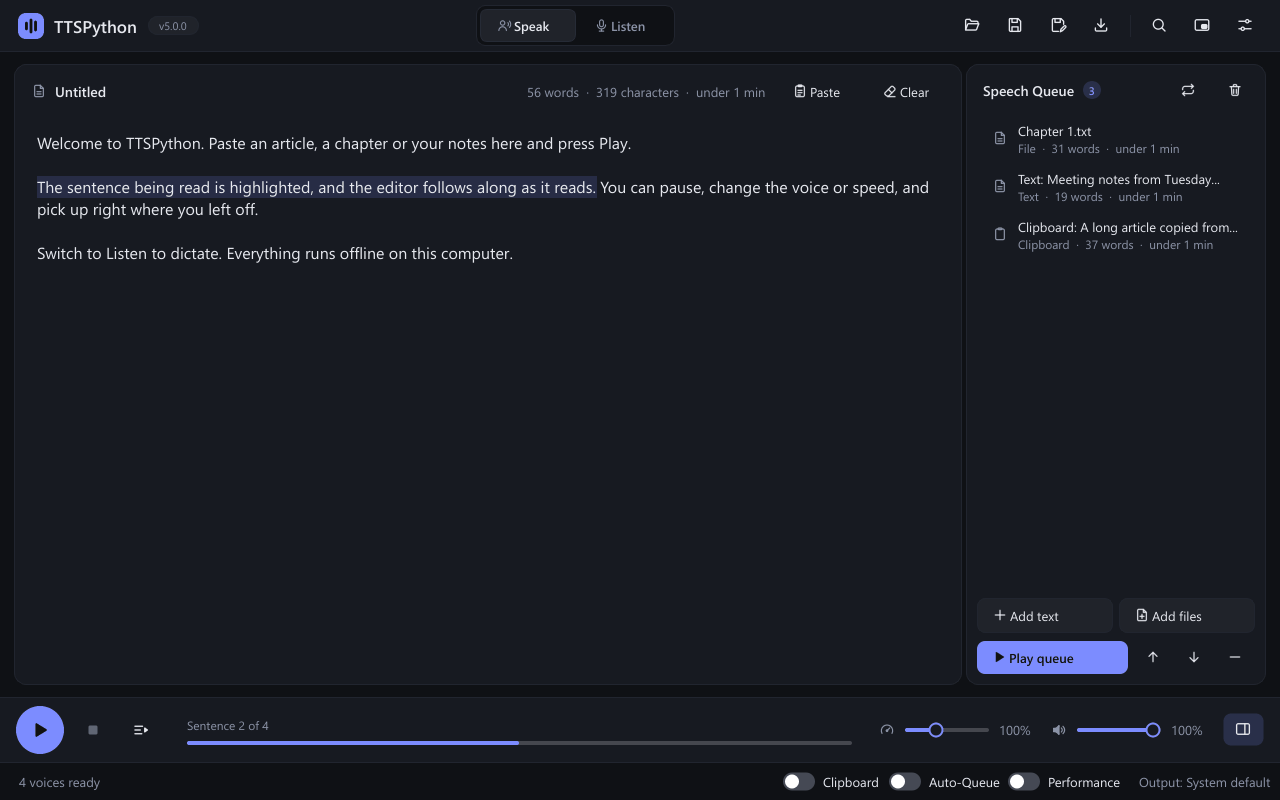
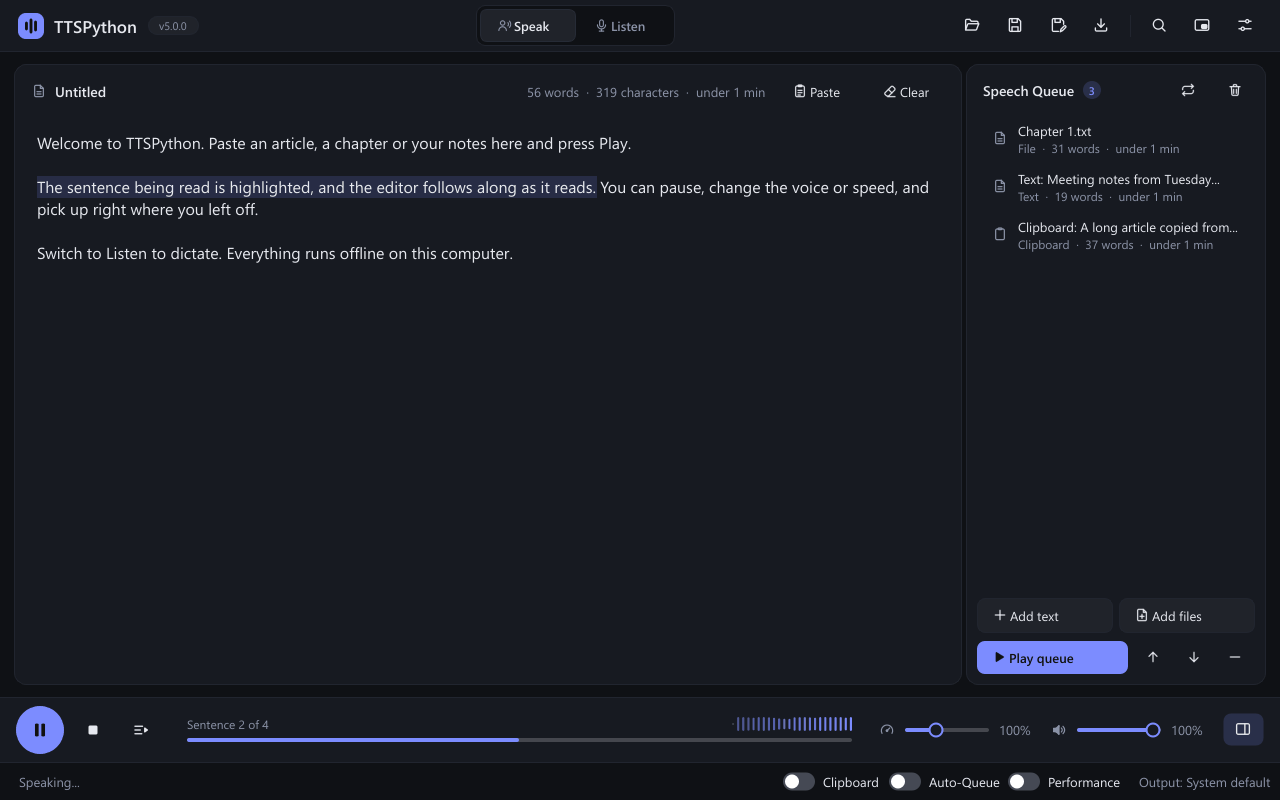
Correct the docs and show speech playing in the README
Docs now match the code on saving, prompts, downloads and pasting. Startup and
memory figures are re-measured (727 ms, 144 MB). The Python floor is the tested
3.10 instead of an untested 3.9, and Linux is described as a preview. The main
screenshot shows speech playing; the other four matched pixel for pixel.

Tests: 442 passed on Python 3.13 and 3.10.

Changed region(s): [[0.125, 0.875, 0.6875, 0.9375], [0.0, 0.9688, 0.0625, 1.0]]

diff --git a/tools/screenshots.py b/tools/screenshots.py
@@ -1,6 +1,7 @@
 """Render the real app's windows to PNG files (uses temporary settings and data folders).
 
-Usage: python tools/screenshots.py --out <folder> [--themes all|studio,light] [--scale 1]
+Usage: python tools/screenshots.py --out <folder> [--themes all|studio,light] [--size 1280x800] [--extras]
+Set QT_SCALE_FACTOR=2 for double-size pictures.
 Set TTSPYTHON_DATA (Piper voices, live preview model) and HF_HOME (Whisper models) to folders with
 downloads in them to show those; by default both are empty temporary folders, never your own.
 With QT_QPA_PLATFORM=offscreen and QT_QPA_FONTDIR=C:/Windows/Fonts no window opens on the desktop.
@@ -41,6 +42,7 @@ def main():
 
     from ttspython.core.settings import SettingsStore
     from ttspython.core.theme import THEME_PRESETS
+    from ttspython.ui import icons
     from ttspython.ui.app_controller import AppController
 
     app = QApplication(sys.argv[:1])
@@ -78,11 +80,25 @@ def main():
         ctl.editor.begin_tracking()
         ctl.editor.highlight_range(HL_START, HL_END)
         ctl.window.transport.set_progress(1, 4, "Sentence 2 of 4")
+        # As it looks while reading: nothing is spoken, the waveform gets a speech-shaped level.
+        clock = __import__("time").monotonic
+        math = __import__("math")
+        ctl.window.transport.set_level_source(
+            lambda: 0.2 + 0.7 * abs(math.sin(clock() * 11)) * abs(math.sin(clock() * 2.7)))
+        icons.apply(ctl.actions["play_pause"], "pause", "on_accent", 22)
+        ctl.window.status_label.setText("Speaking...")
+        ctl.actions["stop"].setEnabled(True)
+        settle(1000)
         for key in themes:
             ctl.theme.apply(key)
+            icons.apply(ctl.actions["play_pause"], "pause", "on_accent", 22)
             ctl.editor.begin_tracking()
             ctl.editor.highlight_range(HL_START, HL_END)
             grab(ctl.window, f"main_{key}")
+        ctl.window.transport.set_level_source(None)
+        icons.apply(ctl.actions["play_pause"], "play", "on_accent", 22)
+        ctl.window.status_label.setText("")
+        ctl.actions["stop"].setEnabled(False)
         if args.extras:
             ctl.theme.apply(themes[0])
             ctl.set_mode("stt")

diff --git a/README.md b/README.md
@@ -1,6 +1,6 @@
 # TTSPython
 
-An offline text-to-speech (TTS) and speech-to-text (STT) desktop app for Windows and Linux, with a full editor window and a floating mini bar that works over any app. Speech uses your system voices (SAPI5 on Windows, espeak-ng on Linux) or natural-sounding Piper voices you download once, and dictation runs locally with `faster-whisper`. Nothing you read or say leaves your computer.
+A free, open-source, offline text-to-speech (TTS) and speech-to-text (STT) desktop app for Windows and Linux, with a full editor window and a floating mini bar that works over any app. Speech uses your system voices (SAPI5 on Windows, espeak-ng on Linux) or natural-sounding Piper voices you download once, and dictation runs locally with `faster-whisper`. Nothing you read or say leaves your computer.
 
 ![TTSPython main window](assets/screenshots/main.png)
 
@@ -12,7 +12,7 @@ An offline text-to-speech (TTS) and speech-to-text (STT) desktop app for Windows
 |:---:|:---:|
 | ![The main window in Listen mode](assets/screenshots/listen.png) | ![The Listen page of Settings](assets/screenshots/settings.png) |
 
-![Python](https://img.shields.io/badge/python-3.9%2B-blue.svg)
+![Python](https://img.shields.io/badge/python-3.10%2B-blue.svg)
 ![Platform](https://img.shields.io/badge/platform-Windows%20%7C%20Linux-lightgrey.svg)
 ![License](https://img.shields.io/badge/license-MIT-green.svg)
 ![Version](https://img.shields.io/badge/version-5.0.0-brightgreen.svg)
@@ -67,7 +67,7 @@ Work even when TTSPython is in the background. All can be changed in **Settings 
 - Save the text (or just the selected part) as **WAV** or **MP3** with the current voice, speed and volume. Export runs in the background with progress and a Cancel button, writes as it goes (a whole book never sits in memory), remembers the folder and format, and offers **Open folder** when done.
 
 ### Editor
-- **New**, open and save text files (UTF-8, UTF-16 and Windows-1252) without changing their encoding or line endings. A file in another encoding (such as GBK or Shift-JIS) can look wrong; you are told when it opens, and Save asks where to save, so the original stays as it is. The **Open** button's arrow lists recent files, and you can drop a text file on the editor to open it. The window title shows the file name and whether it has unsaved changes. Closing with unsaved text asks first.
+- **New**, open and save text files (UTF-8, UTF-16 and Windows-1252) without changing their encoding or line endings. A file in another encoding (such as GBK or Shift-JIS) can look wrong; you are told when it opens, and Save asks where to save, so the original stays as it is. The **Open** button's arrow lists recent files, and you can drop a text file on the editor to open it. The window title shows the file name and whether it has unsaved changes. Closing with unsaved text offers **Save**, **Discard** or **Cancel**.
 - Unsaved text is kept every 30 seconds, so it comes back after a crash or a logoff.
 - The word count also shows the reading time at the current speed.
 - Inline **Find and replace** (`Ctrl+F`) with match case, regular expressions, previous/next with wrap-around, a match count ("2 of 5"), Replace and Replace all (one undo step).
@@ -79,8 +79,8 @@ Work even when TTSPython is in the background. All can be changed in **Settings 
 - The window, Settings and mini bar fit small windows and large display scaling without cutting anything off.
 
 ## Requirements
-- **Windows 10/11** or **Linux** (X11 or Wayland).
-- Python 3.9 or newer (developed and tested on Python 3.13).
+- **Windows 10/11** or **Linux** (X11 or Wayland). Linux is a preview in 5.0: it is built and smoke-tested automatically, but has had less hands-on testing than Windows, so please report what you find.
+- To run from source: Python 3.10 or newer (developed on 3.13; the full test suite also passes on 3.10).
 - Python packages (installed by the scripts below): `PySide6-Essentials`, `pyttsx3`, `numpy`, `sounddevice`, `lameenc`, `faster-whisper`, `sherpa-onnx` (the instant live preview); on Windows also `comtypes` (talks to the SAPI5 voices; pyttsx3 brings `pywin32` for its fallback driver); on Linux also `pynput`.
 - Linux system packages: `espeak-ng`, `portaudio`, `xcb-util-cursor` (Debian/Ubuntu: `libxcb-cursor0`). Optional: `wtype` to type dictation at the cursor on Wayland.
 
@@ -90,6 +90,7 @@ Work even when TTSPython is in the background. All can be changed in **Settings 
 Download the latest build from [Releases](https://github.com/JoshLongmire/TTSPython/releases):
 - **Windows:** `TTSPython-<version>-windows-x64.zip`. Extract it anywhere and run `TTSPython\TTSPython.exe`.
   The app is not code-signed, so SmartScreen may warn you: choose **More info > Run anyway**.
+  The folder also holds `LICENSE.txt` and `THIRD_PARTY_LICENSES.txt`.
 - **Linux:** `TTSPython-<version>-linux-x86_64.tar.gz`. Extract it and run `TTSPython/install.sh` (installs for your
   user only: app menu entry and a `ttspython` command; `uninstall.sh` removes it). It also needs
   `espeak-ng`, `libportaudio2` and `libxcb-cursor0` from your distribution; the installer tells you if one is missing.
@@ -98,7 +99,7 @@ Download the latest build from [Releases](https://github.com/JoshLongmire/TTSPyt
 The first dictation downloads the Whisper model you picked (once) and the live preview model (73 MB, once, English only), and a Piper voice downloads when you pick it, so the app needs internet for those.
 
 ### From source: Windows
-1. Install Python 3.9 or newer from [python.org](https://www.python.org/downloads/windows/) (tick **Add Python to PATH**).
+1. Install Python 3.10 or newer from [python.org](https://www.python.org/downloads/windows/) (tick **Add Python to PATH**).
 2. Get the code and install the dependencies:
    ```powershell
    git clone https://github.com/JoshLongmire/TTSPython.git
@@ -106,8 +107,6 @@ The first dictation downloads the Whisper model you picked (once) and the live p
    ./dependencies.bat
    py TTSPython.py
    ```
-
-> **First run tip:** If Windows Defender or SmartScreen warns you, choose **More info > Run anyway**. TTSPython is a plain Python script, not a signed installer.
 
 ### From source: Linux (Arch and others)
 1. System packages (Arch example):
@@ -242,7 +241,7 @@ The Settings window has these pages: **Appearance** (theme gallery, Performance 
 - The microphone is muted, or Windows does not let apps use it: **Settings > Privacy & security > Microphone**, turn on access for desktop apps.
 
 ### Dictation is not typed into another app
-- Some apps running as administrator block simulated typing; the text is put on the clipboard instead, so press `Ctrl+V`.
+- A window running as administrator ignores simulated typing. TTSPython notices, leaves the text on the clipboard and says so: press `Ctrl+V`. The same happens if a paste fails.
 - Terminals often paste with `Shift+Insert`: change **Settings > Listen > Paste using** (also used with `wtype` on Wayland).
 - If you still hold `Alt` or `Shift` from the stop hotkey, the text is copied instead of pasted (pasting then would trigger another command): press `Ctrl+V`.
 - On Wayland, install `wtype`, or use the clipboard option.
@@ -279,7 +278,7 @@ build.bat        # Windows: dist/TTSPython/TTSPython.exe and dist/TTSPython-<ver
 ```
 Each system builds its own app (PyInstaller cannot build for another OS). Build Linux on the oldest distribution
 you want to support. Pushing a `v*` tag runs `.github/workflows/build.yml`, which builds and smoke-tests both
-and attaches them to the GitHub release. To check a build, run it with `TTSPYTHON_SELFTEST=<report.json>`: it loads
+and attaches them to the GitHub release, using the exact tested versions in `packaging/constraints.txt`. To check a build, run it with `TTSPYTHON_SELFTEST=<report.json>`: it loads
 every part (voices, the Piper voice list, MP3 export, Whisper libraries, the live preview engine and, if downloaded,
 its model, audio devices), writes the report (with a `problems` list, empty when all is well) and quits,
 without sound. `python packaging/build.py --check` does this right after building and fails if it finds a problem. Add `TTSPYTHON_SELFTEST_STT=tiny` to also dictate a spoken test phrase through the real transcription
@@ -289,7 +288,8 @@ and `TTSPYTHON_SELFTEST_VOICE=<voice id>` exports the test MP3 with that voice (
 
 ## License
 
-Released under the MIT License. See the [`LICENSE`](LICENSE) file.
+Released under the MIT License. See the [`LICENSE`](LICENSE) file. The ready-to-run app also includes Qt, Whisper's
+engine and other components under their own licenses, listed in its `THIRD_PARTY_LICENSES.txt`.
 
 Piper voices are spoken by the official [Piper](https://github.com/rhasspy/piper) program (MIT, with espeak-ng under
 GPL-3.0), which TTSPython downloads and runs as a separate program; it is not part of TTSPython. Each voice has its

diff --git a/FEATURE_GUIDE.md b/FEATURE_GUIDE.md
@@ -28,14 +28,14 @@
 - Switch to **Listen** (`Ctrl+M`). A dictation panel appears under the editor with a record button, a live input waveform and the current model and microphone.
 - Press record, speak, press again. The transcript is cleaned up (capital first letter, final punctuation) and added to the editor.
 - When dictating into another app (the mini bar's mic or `Ctrl+Alt+D`), a **caption bubble** above the bar shows each word about half a second after you say it. A small, fast **instant preview** recognizer shows the words first (a little dimmer); Whisper checks them whenever you pause, or every couple of seconds while you keep talking, and corrects them in place. The newest word is highlighted. The bubble is only as big as the text (up to three lines, larger than the app's text) and grows upward, so the newest words stay right above the bar. **X** or `Esc` cancels the dictation; nothing is typed.
-- Because Whisper checks at each pause, the text is usually ready when you stop: typed almost at once if you paused first, otherwise within about a second and a half. Long dictations settle at real pauses in the audio as you go (never in the middle of a word), so the wait stays short however long you talk.
+- Because Whisper checks at each pause, the text is usually ready when you stop: typed almost at once if you paused first, otherwise in about 0.5 to 1.2 seconds. Long dictations settle at real pauses in the audio as you go (never in the middle of a word), so the wait stays short however long you talk.
 - The instant preview needs a 73 MB model, downloaded once in the background the first time you dictate (its progress shows in the status bar only; a pop-up appears only if it fails). It works for English; with another language the captions come from Whisper alone. While loaded it uses about 140 MB of memory, freed together with the Whisper model when that unloads. Turn it off in **Settings > Listen > Instant live preview**, and delete its model in the downloaded models list.
 - Dictation keeps full speed while TTSPython is in the background: Windows 11 runs background apps in efficiency mode, which made each Whisper pass 2.6 times slower, so TTSPython opts out.
 - If the microphone delivers only silence (muted, or blocked in Windows privacy settings), you are told so.
 - **Settings > Listen**:
   - Microphone, with a live level meter so you can check it hears you, and **Refresh** for one plugged in later.
   - **Whisper model**: Tiny, Base, Small (default), Medium, Large v3, Large v3 Turbo, Distil Large v3. A model downloads the first time it is used; the download progress shows in the status bar, the Listen panel and next to the mini bar.
-  - **Downloaded models** with their size and a **Delete** button.
+  - **Downloaded models** with their size and a **Delete** button (it asks first).
   - **Language**: English (default), Auto-detect, or one of 15 common languages.
   - **Unload the model after each dictation** or **Unload when idle** after 1 to 60 minutes.
   - How dictation reaches other apps (type at the cursor, or copy to the clipboard only) and the paste keys to use (Ctrl+V, or Shift+Insert for terminals).
@@ -43,7 +43,7 @@
 ## Mini mode
 
 - A compact bar that floats above every window. It **never takes keyboard focus**, so the app you were typing in keeps its cursor.
-- **Mic**: dictate into whatever app you are using. The text is typed at the cursor. Your clipboard is restored afterwards, and the dictated text is kept out of Windows clipboard history.
+- **Mic**: dictate into whatever app you are using. The text is typed at the cursor. Your clipboard is restored afterwards, and the dictated text is kept out of Windows clipboard history. If the paste fails, or the window runs as administrator (which ignores simulated typing), the text stays on the clipboard and you are told.
 - **Play**: reads the text you have highlighted in the app you are using, or the clipboard when nothing is highlighted. Press again to stop.
 - **Waveform**: shows your voice while dictating and the speech while reading.
 - **Chevron or right-click**: a popover for voice, speed and volume, **Pause/Resume**, and Hide mini mode.
@@ -69,9 +69,9 @@ Change them in **Settings > Shortcuts**. If another program already owns a combi
 
 - **Add text** (the editor contents), **Add files** (several at once) and clipboard items (from the clipboard monitor).
 - **Play queue** starts at the selected item (or the top). Double-click an item or press `Enter` to play from it. Items are separated by a half-second pause.
-- **Right-click** an item: Play from here, Move to top, Copy to the editor, Remove.
+- **Right-click** an item: Play from here, Move to top, Copy to the editor (as a new untitled document, so Save cannot overwrite the file you had open), Remove.
 - **Drop text files** on the queue to add them, even when it is empty.
-- **Drag** items to reorder, or use the up and down arrows. The minus button (or Delete) removes an item; **Clear queue** removes them all.
+- **Drag** items to reorder, or use the up and down arrows. The minus button (or Delete) removes an item; **Clear queue** removes them all (it asks first).
 - **Loop** repeats the whole queue.
 - Each row shows the item type, word count and listening time; the playing item is marked with an accent bar.
 - The queue is kept when you quit and comes back the next time.
@@ -99,8 +99,8 @@ In the status bar (or Settings > Clipboard):
 
 ## Files
 
-- **Open** reads UTF-8 (with or without BOM), UTF-16 and Windows-1252 text and remembers the file's encoding and line endings; **Save** writes them back the same way, so an unchanged file stays byte-for-byte identical.
-- **New** (`Ctrl+N`) starts an empty document. Drop a text file on the editor to open it. The Open button's arrow lists the last 8 files.
+- **Open** reads UTF-8 (with or without BOM), UTF-16 and Windows-1252 text and remembers the file's encoding and line endings; **Save** writes them back the same way, so an unchanged file stays byte-for-byte identical. A file in an encoding TTSPython cannot read (such as GBK or Shift-JIS) can look wrong: you are told when it opens, and Save asks where to save, so the original stays as it is.
+- **New** (`Ctrl+N`) starts an empty document. Drop a text file on the editor to open it (to read several, drop them on the queue). The Open button's arrow lists the last 8 files. Opening a file while the old one is being read stops the reading; the queue and clipboard keep playing.
 - Opening a file, New, closing the window or quitting asks first if there are unsaved changes: **Save**, **Discard** or **Cancel** (Enter saves). Quitting also asks if an export or a dictation is still running.
 - Unsaved text is kept every 30 seconds (and when Windows logs off or shuts down) and put back the next time TTSPython starts, even after a crash.
 

diff --git a/CHANGELOG.md b/CHANGELOG.md
@@ -2,7 +2,7 @@
 
 ## Version 5.0.0 - 2026-11-04
 - Measured against 4.1.0 on the same Windows PC (median of 10 runs):
-  startup to first window 1012 ms -> 976 ms; idle memory 65 MB -> 130 MB (RSS), mostly the Qt interface and
+  startup to first window 1012 ms -> 727 ms; idle memory 65 MB -> 144 MB (RSS), mostly the Qt interface and
   keeping the voice loaded for instant speech; Python packages about 197 MB larger (Qt replaces Pillow).
   Tests: 442 pass (plus 5 on real audio and the desktop); 21 bug specs fail on 4.1.0 and pass on 5.0.0.
 - New interface built with Qt (PySide6), replacing tkinter. Every v4 control and setting is kept.
@@ -51,7 +51,7 @@
   Ctrl+Alt+Shift+M mini mode (other apps often take Ctrl+Alt+M). Keys another app already uses are shown in
   Settings and the status bar; a pop-up says so once, the first time, not on every start, and TTSPython tries
   again a few seconds after starting in case a key was only busy for a moment.
-- New **ready-to-run downloads**, no Python needed: `TTSPython.exe` for Windows (94 MB zip, 248 MB unpacked)
+- New **ready-to-run downloads**, no Python needed: `TTSPython.exe` for Windows (94 MB zip, 249 MB unpacked)
   and a Linux build with a per-user installer (menu entry, `ttspython` command). Build them yourself with
   `build.bat` / `build.sh`; each release on GitHub gets both, built and smoke-tested automatically.
 - New **system tray** icon, with an option to keep running in the tray when the window is closed.
@@ -150,7 +150,7 @@
   rebuilds -> 1; Cancel or Reset in Settings no longer restyles every window when the theme did not change (50 ms -> 0.1 ms).
 - Microphones that only record at a higher rate (such as 48 kHz): sound above what dictation can use no longer folds
   back as noise (a 10 kHz test tone -1.4 dB -> -55 dB; speech frequencies unchanged, 0.1 ms per block).
-- Python 3.8 is no longer supported (Qt needs 3.9 or newer).
+- Python 3.10 or newer is now needed (the full test suite passes on 3.10 and 3.13).
 - Voice, speed, volume, queue loop and panel layout are remembered between sessions.
 - Settings moved to `%APPDATA%\TTSPython\settings.json` (Linux: `~/.config/ttspython/settings.json`); your
   v4 `tts_settings.json` is imported on first start and left untouched.
@@ -455,8 +455,8 @@
 - **Themes**: 12 presets (Studio, Dark, Twilight, Light, High Contrast, Forest, New Vegas, Spiral, Poly, Sunset, Paper, Graphite)
 - **Modes**: Speak (SAPI5 on Windows, espeak-ng on Linux) + Listen (offline faster-whisper, 16 languages plus Auto-detect)
 - **Queue sources**: Text, File, Clipboard
-- **Platforms**: Windows 10/11 and Linux
-- **Python**: 3.9 or newer
+- **Platforms**: Windows 10/11 and Linux (a preview in 5.0)
+- **Python**: 3.10 or newer
 
 ---
 

diff --git a/ADD_VOICES_GUIDE.md b/ADD_VOICES_GUIDE.md
@@ -11,8 +11,8 @@ Pick the voice in **Settings > Speech > Voice**, or in the mini bar's popover (c
 
 ## Natural voices (Piper)
 
-1. Open **Settings > Speech** and press **Get more voices**. Pick a language, and type in the filter box to narrow the list by name, country or quality.
-2. Choose a **language**. Each voice is listed with its country, quality (smallest, small, medium or best) and download size.
+1. Open **Settings > Speech** and press **Get more voices**.
+2. Choose a **language**, and type in the filter box to narrow the list by name, country or quality. Each voice is listed with its country, quality (smallest, small, medium or best) and download size.
 3. Not sure which one? **Hear samples online** opens the official sample page, where you can listen to each voice.
 4. Select a voice and press **Download** (or double-click it). Most voices are about 60 MB; the "best" ones about
    115 MB. The first voice also downloads the Piper program (about 23 MB).
@@ -23,7 +23,7 @@ Good English voices to start with: **Lessac** (United States, medium), **Amy** (
 
 Things to know:
 - There are 178 voices in 53 languages. Each one is downloaded once; after that it works without internet.
-- Downloads are checked against their published checksums. A broken or cancelled download leaves nothing behind.
+- Downloads are checked against their published checksums. A broken or cancelled download leaves nothing behind. Closing the window (or `Esc`) cancels a running download.
 - Speed works the same as with system voices (50% to 200%), and changes while it speaks.
 - To remove a voice, select it in **Get more voices** and press **Remove** (switch to another voice first).
 - Voices and the Piper program are stored in `%LOCALAPPDATA%\TTSPython` (Windows) or `~/.local/share/ttspython` (Linux).
